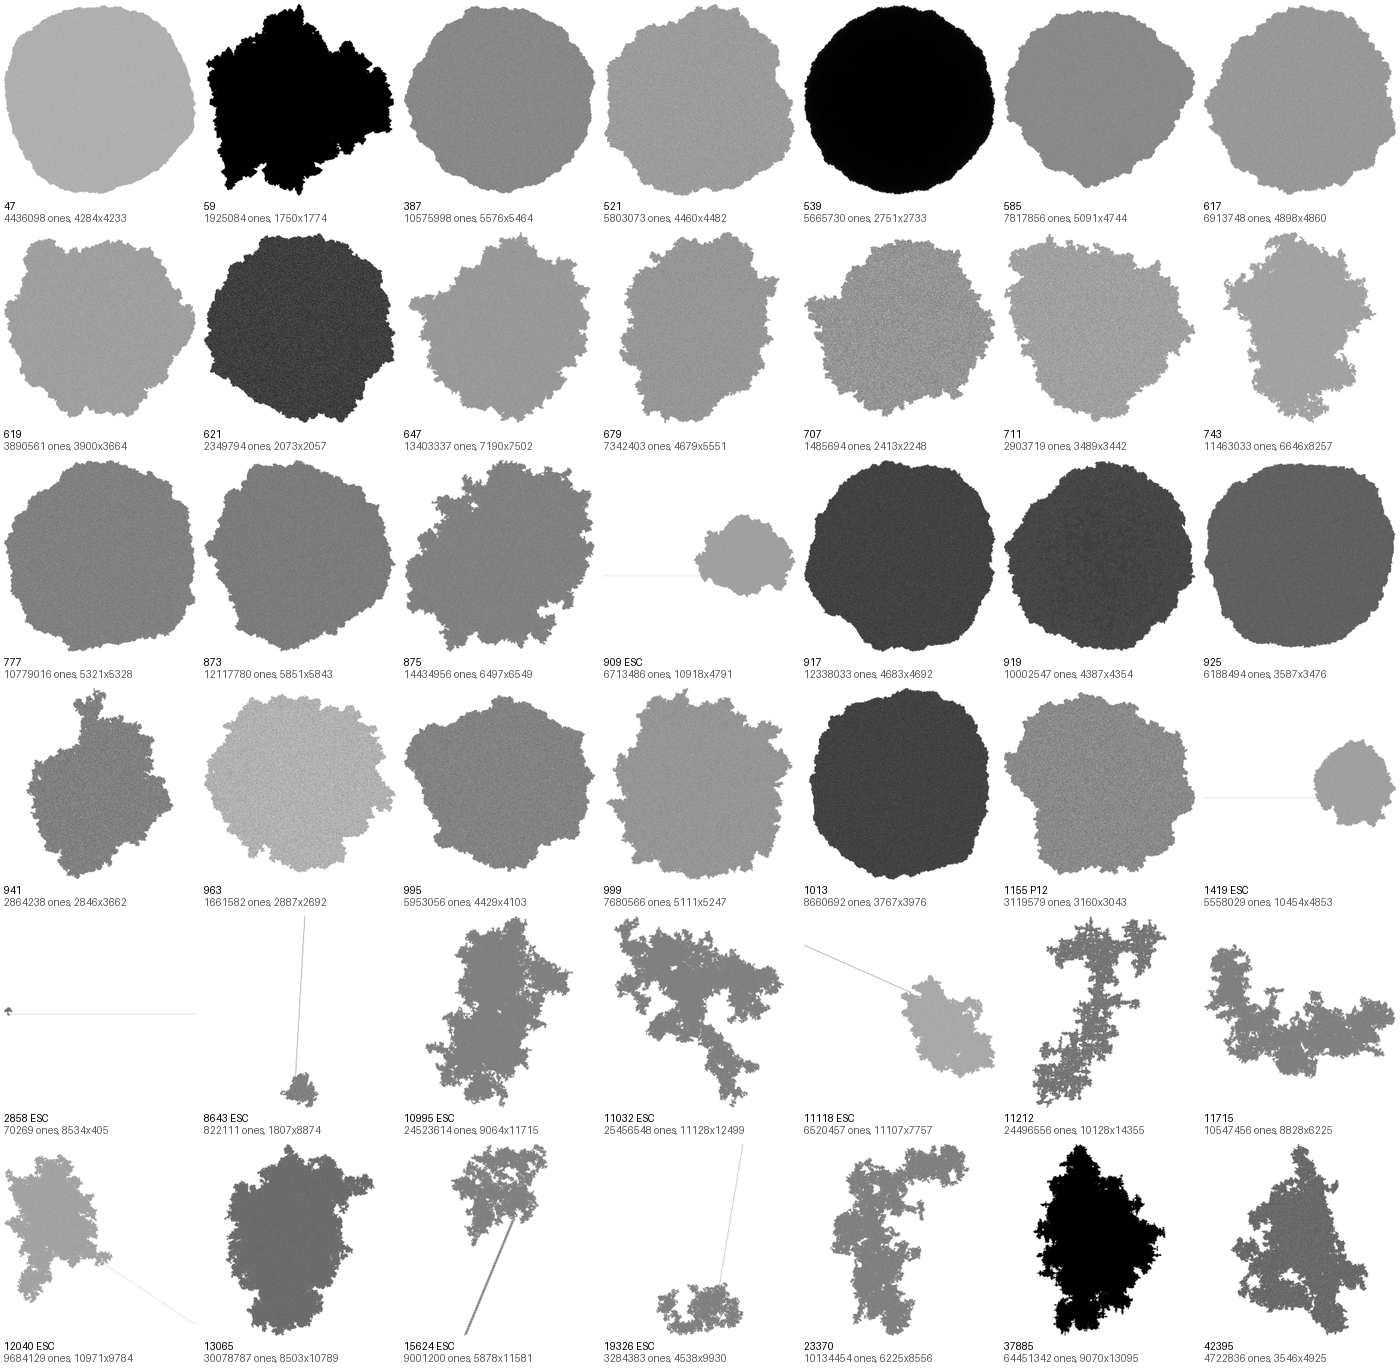
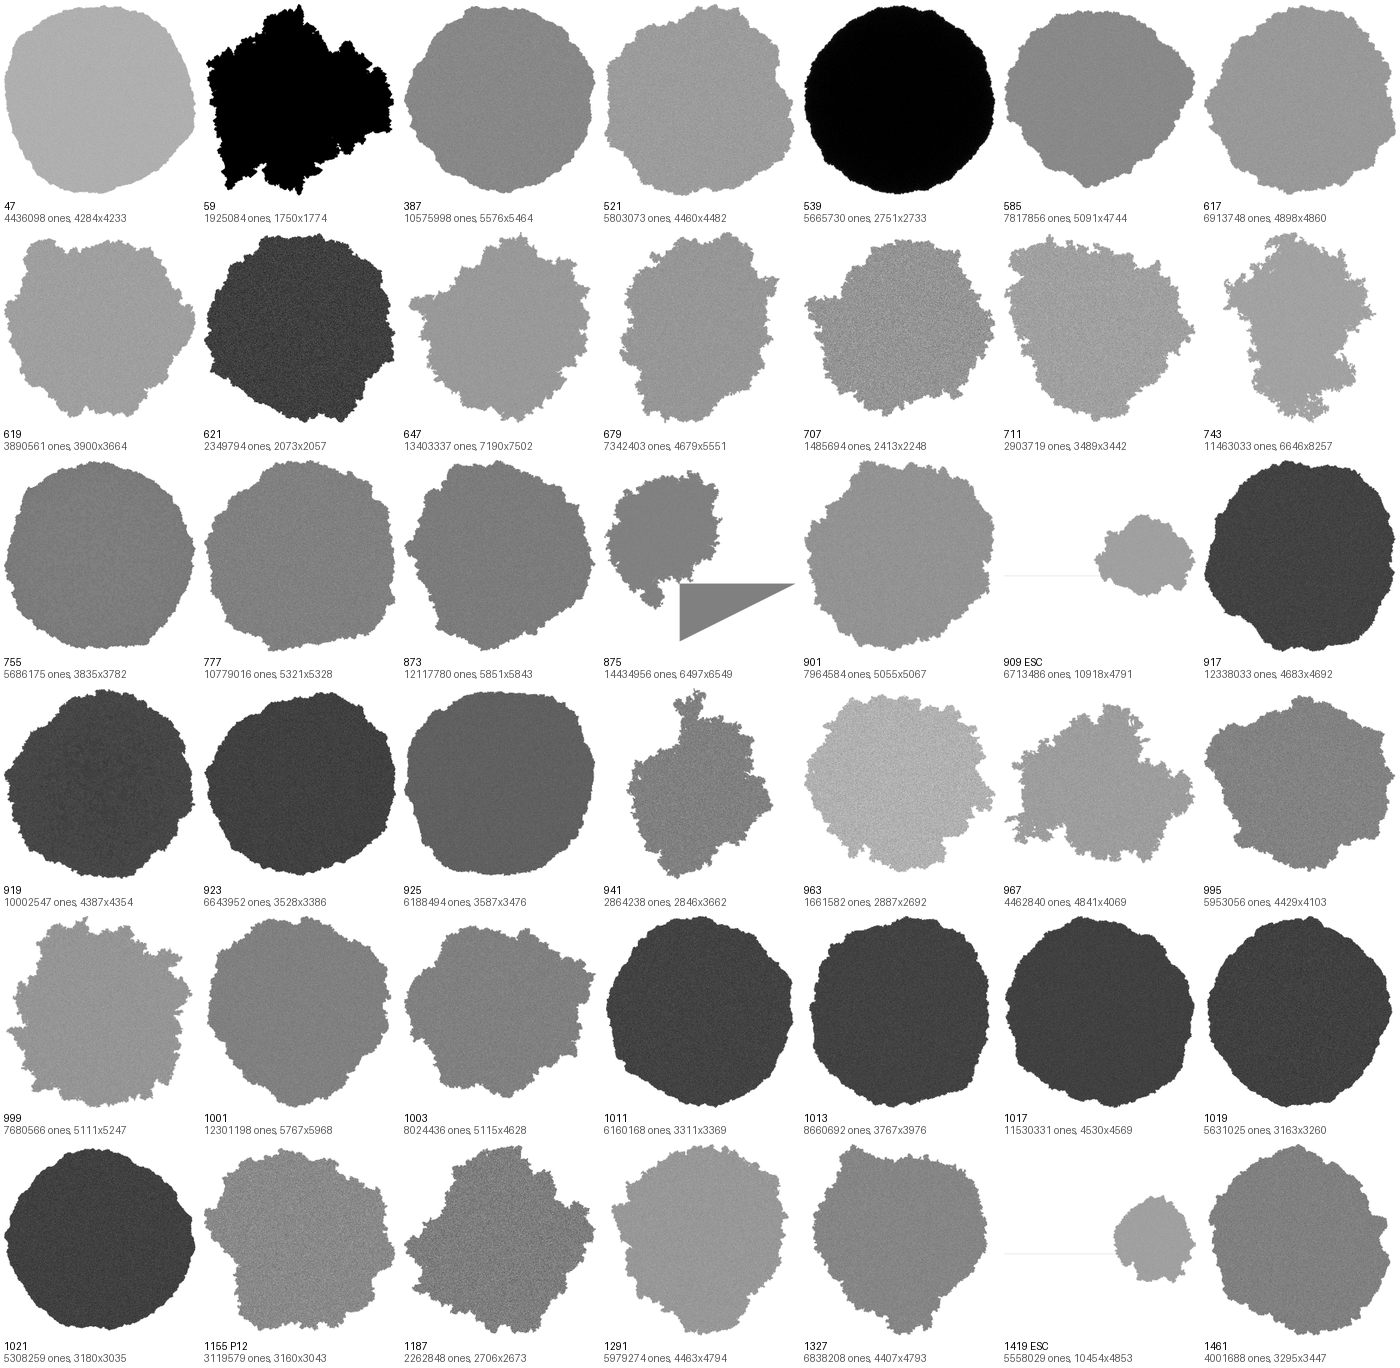
2845: ромб с хаосом на кромке

diff --git a/diary/2026-10-29-1807.md b/diary/2026-10-29-1807.md
@@ -34,3 +34,8 @@
 
 19:16 (date). За пределом 2^32 догнал две последние опубликованные развязки. **2991: шоссе периода 629 с шага 8 362 029 007** (у Еронимуса 8 362 028 000 +1000), на поле 16384, проверка на 32768 идёт. **875**: на 16384 вышел за край на 7 772 711 854; на миниатюре (`img/875-7.7e9.png`) хаотическое пятно и сплошной треугольник, клин Гочева (7 734 883 000). Начало клина не мерил (onsetr клинья не видит); в `kinds_manual.csv`.
 Итого восемь из восьми опубликованных развязок 2×2 между 10^9 и 10^10 воспроизведены. Дальше у них только 3,5·10^12 и 9,5·10^12 — мне не по силам (сотни часов).
+
+19:22 (date). Листы миниатюр 2^32 (`img/t32/`, пока 78 правил). Почти всё — круглые хаотические пятна в 3–6 тысяч клеток, и ветвистые бывшие «упорядоченные» до 13 000. Выделились двое, оба у Еронимуса в нерешённых:
+- **2845** (141110121010): почти сплошной чёрный ромб с вогнутыми сторонами (как астроида) и шумной кромкой, внутри одна белая клетка (`img/2845-2e32.png`). Хаос только на границе; сторона растёт как t^0,25, единиц как t^0,5. Тело, а не пятно.
+- **2943** (181180121010): чёрный крест с шумными краями.
+Ещё одно шоссе из основного прогона: **3043 — с 1 968 996 456** (период 121), проверка на 32768 следом за 2991.
